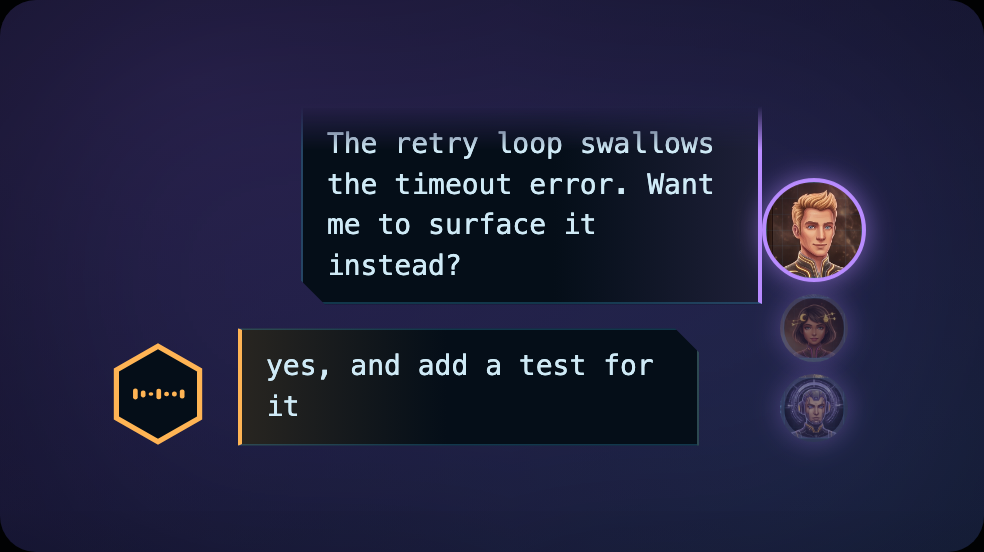
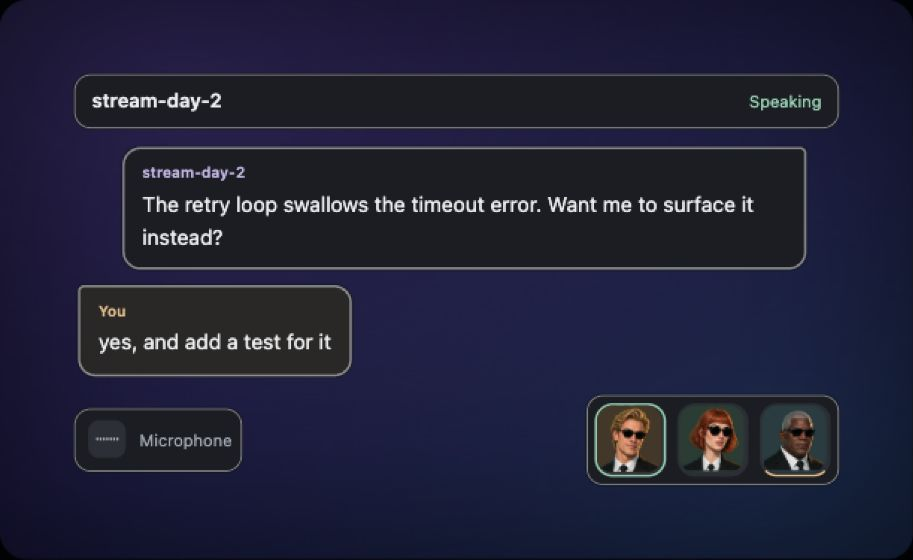
feat: refresh product captures and website setup information

diff --git a/dashboard/src/components/DashboardMarketing.stories.ts b/dashboard/src/components/DashboardMarketing.stories.ts
@@ -1,21 +1,19 @@
 import type { Meta, StoryObj } from "@storybook/vue3";
-import DashboardMock from "./marketing/DashboardMock.vue";
+import App from "../App.vue";
+import { resetScenario } from "../storybook/daemon.fixture";
 
-/* The website hero shot: dashboard CONTENT only, no OS chrome.
- *
- * The landing pages wrap screenshots in their own CSS window frame, so a
- * capture that carries a macOS title bar ends up double-framed. This story
- * renders the bare dashboard at 1600x1000 for scripts/marketing-shots.sh.
- */
+// Capture the actual application layout with isolated demonstration data.
+// A parallel marketing layout drifts whenever the product changes.
 const meta: Meta = {
   title: "Synthetic Screenshots/App",
+  component: App,
   parameters: { layout: "fullscreen" },
 };
 export default meta;
 
 export const Content: StoryObj = {
-  render: () => ({
-    components: { DashboardMock },
-    template: `<DashboardMock />`,
-  }),
+  render: () => {
+    resetScenario("conversation");
+    return { components: { App }, template: "<App />" };
+  },
 };

diff --git a/website/src/style.css b/website/src/style.css
@@ -288,7 +288,7 @@ img {
 .story-grid img {
   width: 100%;
   aspect-ratio: 1.35;
-  object-fit: cover;
+  object-fit: contain;
   object-position: center;
   border: 1px solid var(--line-strong);
   border-radius: 14px;
@@ -627,5 +627,21 @@ img {
   *::after {
     animation: none !important;
     transition: none !important;
+  }
+}
+/* Keep the off-screen skip link out of full-page renders until keyboard focus. */
+.skip-link {
+  visibility: hidden;
+}
+.skip-link:focus {
+  visibility: visible;
+}
+@media (max-width: 600px) {
+  .voice-tile .voice-avatar {
+    width: 72px !important;
+    height: 72px !important;
+  }
+  .voice-line {
+    gap: 8px;
   }
 }

diff --git a/website/index.html b/website/index.html
@@ -1,10 +1,14 @@
-<!DOCTYPE html>
+<!doctype html>
 <html lang="en">
   <head>
     <meta charset="utf-8" />
     <meta name="viewport" content="width=device-width, initial-scale=1" />
-    <link rel="icon" href="/favicon.svg" />
-    <title>NOISY-CODING - Talk with your agent</title>
+    <link rel="icon" href="/src/assets/favicon.svg" />
+    <meta
+      name="description"
+      content="Talk to your coding agent while it works. Spoken updates, voice replies, distinct agent personalities, and a companion that stays alongside your work."
+    />
+    <title>Noisy Coding — Your voice, in the workflow</title>
   </head>
   <body>
     <div id="app"></div>

diff --git a/website/src/App.vue b/website/src/App.vue
@@ -217,7 +217,8 @@ const voices = ["lux", "atlas", "cosmo", "orion", "celeste"];
           </p>
         </div>
         <div class="install-options">
-          <a :href="`${source}/blob/v3-desktop/README.md#quick-start`"
+          <a
+            :href="`${source}/blob/v3-desktop/README.md#install-for-claude-code`"
             ><span>Claude Code</span
             ><strong
               >Installation & setup <span aria-hidden="true">↗</span></strong

diff --git a/website/README.md b/website/README.md
@@ -1,42 +1,17 @@
-# noisy-coding website
+# Noisy Coding website
 
-The marketing site. It renders the REAL product components (Companion, the
-marketing terminal mock) from `dashboard/src` through the `@dashboard`
-alias - nothing copied, nothing reimplemented.
+Vue/Vite product showcase using the application's graphite tokens, VoiceAvatar and CharacterReadout components through the `@dashboard` alias. Character demo state is local to the page. It never connects to the voice daemon or requests microphone access. The earlier backend/live-audio demonstration and scene experiments remain dormant and are not imported by the landing page.
 
-## Dev
+## Development
 
-```
-npm install
-npm run dev        # port 5199
-```
+Run `npm ci` then `npm run dev` in `website/` (default port 5199). Use `npm run dev -- --port 5201 --strictPort` for an isolated preview when the original checkout is already running.
 
-## Deploy (GitHub Pages)
+## Product screenshots
 
-Deploys automatically via `.github/workflows/deploy-website.yml` on every
-push to `main` that touches `website/` or the dashboard components the site
-renders (also runnable by hand: Actions > deploy-website > Run workflow).
+The page imports `src/assets/shots/*.png`. See that directory's README for source stories and capture dimensions. `scripts/marketing-shots.sh` regenerates the Storybook shots and copies the four website assets into that directory. It requires Chrome and Python/Pillow. `scripts/build-website.sh` regenerates them before building the website. Browser tooling can also capture the same stories; inspect rendered output before replacing assets.
 
-- The Pages artifact is EXACTLY `website/dist` - the compiled bundle only.
-  No source, no backend, no other repo files are ever served.
-- One-time setup: repo Settings > Pages > Source: **GitHub Actions**.
-- The build runs with `PAGES_BASE=/<repo>/` because a project Pages site is
-  served from that prefix; `vite.config.ts` reads it as `base`. Sourcemaps
-  are off (Vite default).
-- Portrait sprite note: product code references `/avatars.png` absolutely;
-  `App.vue` overrides it with a base-aware Vite asset so portraits work
-  under the Pages prefix.
+## Build and deployment
 
-### Custom domain later
+`npm run build` emits only the static site in `website/dist`. `PAGES_BASE=/noisy-coding/ npm run build` builds for GitHub Pages project hosting. Vite resolves the imported portraits, favicon and screenshots with the configured base.
 
-1. Settings > Pages > Custom domain (plus the DNS CNAME/A records).
-2. Set `PAGES_BASE: /` in the workflow (or remove the env - `/` is the
-   default) and redeploy: on a custom domain the site is served from the
-   root, so no base prefix.
-
-## TRY IT LIVE (dormant in v1)
-
-The live demo section is feature-flagged off - `TRY_LIVE_ENABLED` in
-`src/App.vue`. See `src/demo/live-demo-architecture.md` for how to bring it
-back (flag + website-backend with a key). The dormant code tree-shakes out
-of the production bundle: the built site makes no `/api` calls.
+The existing deploy-website workflow publishes `website/dist` on matching changes to main or v3-desktop. It does not serve source, the daemon, or website-backend. Feature branches are previewed locally and are not deployed by this workflow.

diff --git a/website/src/assets/shots/README.md b/website/src/assets/shots/README.md
@@ -1,0 +1,14 @@
+# Product screenshots
+
+Regenerated on 2026-09-08 from current Storybook components, using browser screenshots. No painted or invented application UI.
+
+| Asset | Story | Captured frame |
+| --- | --- | --- |
+| TerminalVoiceFix.png | synthetic-screenshots-companion-over-claude-code--terminal-voice-fix | 1200 × 760 CSS px |
+| CodeReviewSpace.png | synthetic-screenshots-companion--widget, backdrop:space;preset:code-review | 612 × 375 CSS px |
+| LongRefactorMesh.png | synthetic-screenshots-companion--widget, backdrop:mesh;preset:long-refactor | 612 × 375 CSS px |
+| dashboard-content.png | synthetic-screenshots-app--content | 1600 × 1000 CSS px |
+
+PNG resolution reflects the browser's capture scale. Companion/terminal captures are cropped to their rendered story frame. The dashboard story now mounts App.vue with an isolated daemon fixture, so it follows actual product layout changes. The pictured Agents avatar family is a supported product option.
+
+The existing `scripts/marketing-shots.sh` regeneration command copies these four named outputs into this directory after capturing them. Inspect its output before committing: story rendering errors and missing images must not ship. Build the website after regeneration to include the refreshed assets.
